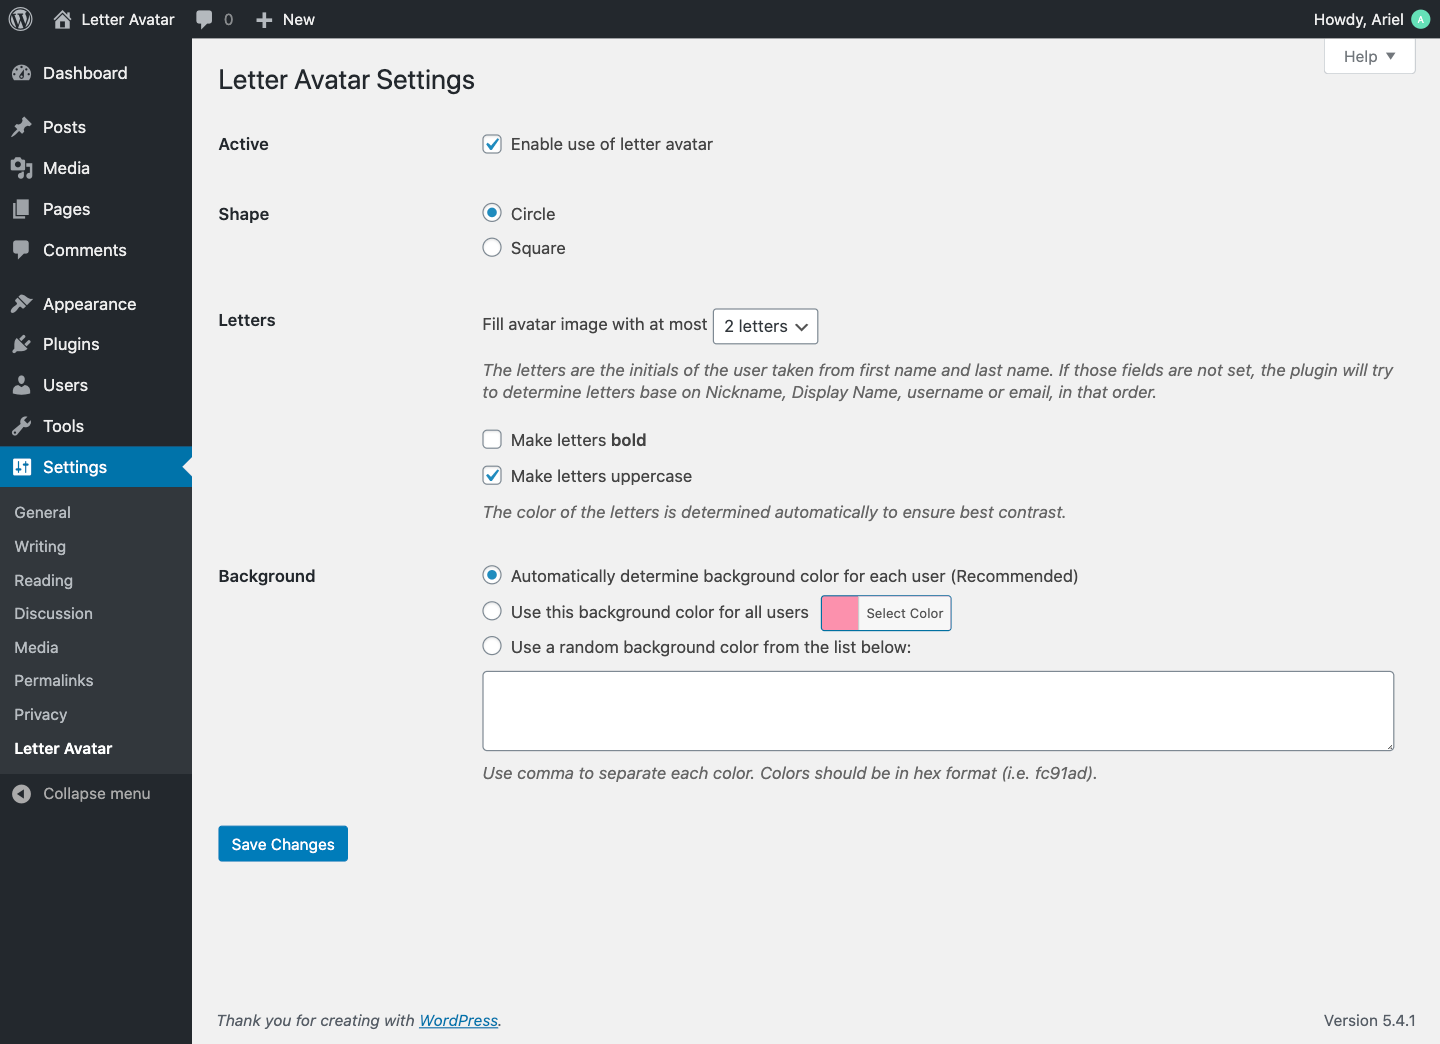
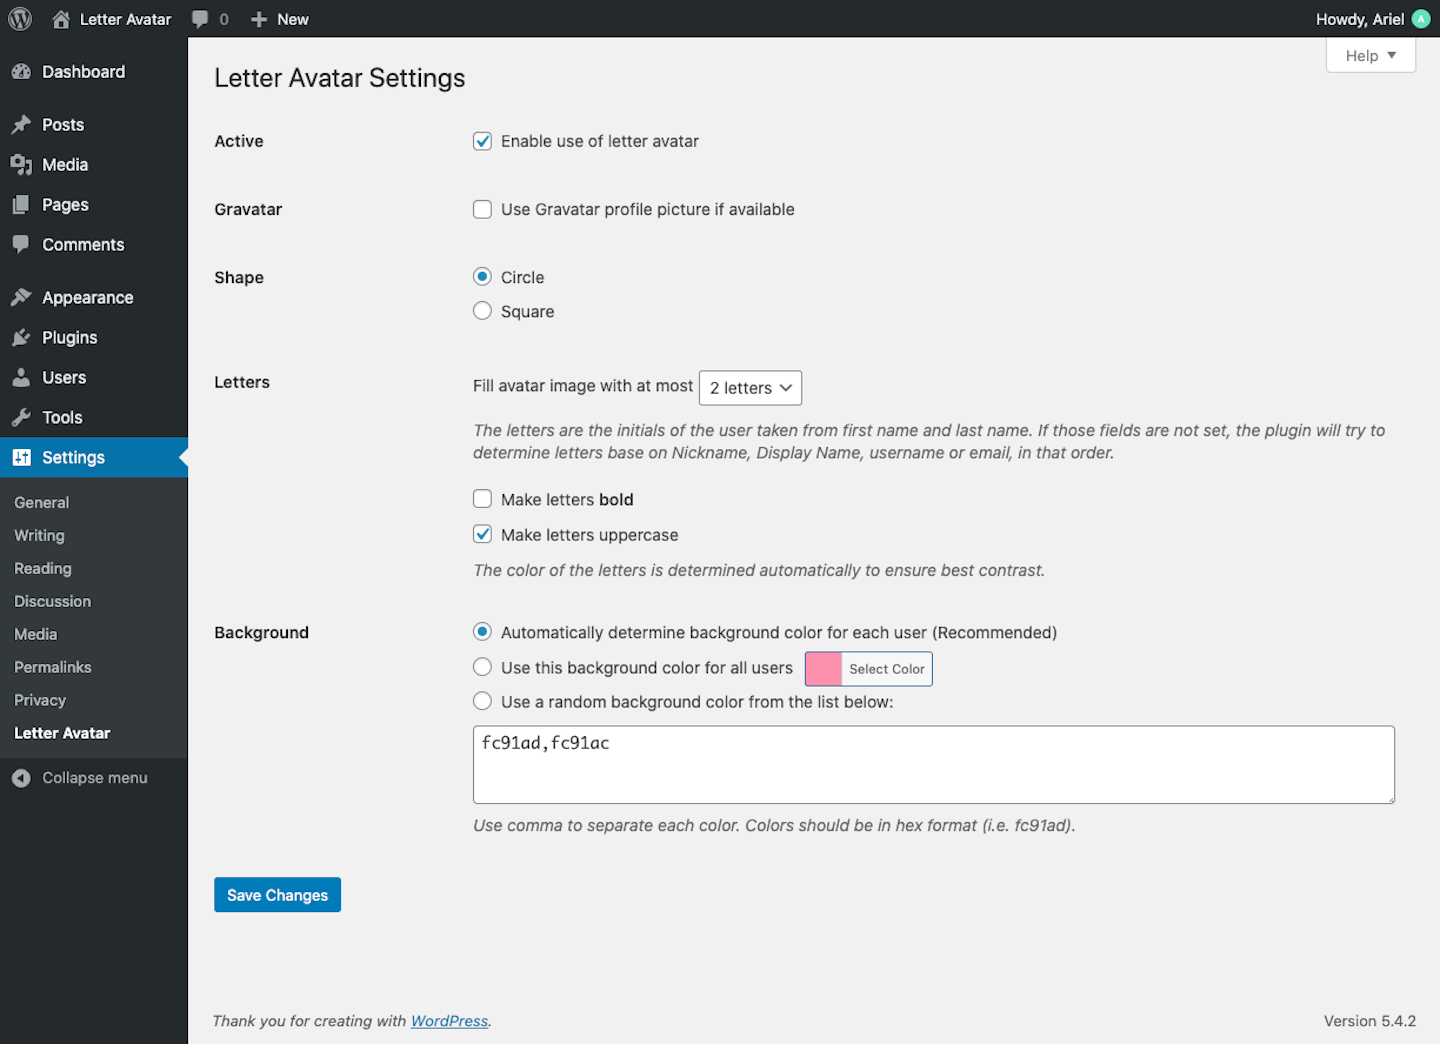
new assets

diff --git a/admin/js/leira-letter-avatar-admin.js b/admin/js/leira-letter-avatar-admin.js
@@ -48,6 +48,25 @@
             // or, supply an array of colors to customize further
             palettes: ['#fc91ad', '#37c5ab', '#fd9a00', '#794fcf', '#19C976']
         });
+
+
+        /**
+         * Handle footer rate us link
+         */
+        $('a.leira-letter-avatar-admin-rating-link').click(function () {
+            $.ajax({
+                url: wp.ajax.settings.url,
+                type: 'post',
+                data: {
+                    action: 'leira_letter_avatar_footer_rated',
+                    nonce: $(this).data('nonce')
+                },
+                success: function () {
+
+                }
+            });
+            $(this).parent().text($(this).data('rated'));
+        });
     });
 
 })(jQuery);

diff --git a/admin/class-leira-letter-avatar-admin.php b/admin/class-leira-letter-avatar-admin.php
@@ -57,6 +57,14 @@ class Leira_Letter_Avatar_Admin{
 	protected $sanitize = null;
 
 	/**
+	 * Action to generate nonce
+	 *
+	 * @var string
+	 * @since 1.2.0
+	 */
+	protected $nonce_action = 'leira-letter-avatar';
+
+	/**
 	 * Initialize the class and set its properties.
 	 *
 	 * @param string $plugin_name The name of this plugin.
@@ -101,7 +109,11 @@ class Leira_Letter_Avatar_Admin{
 		if ( $page === 'settings_page_leira_letter_avatar' ) {
 
 			wp_enqueue_style( 'wp-color-picker' );
-			wp_enqueue_script( $this->plugin_name, plugin_dir_url( __FILE__ ) . 'js/leira-letter-avatar-admin.js', array( 'wp-color-picker' ), $this->version, false );
+			wp_enqueue_script( $this->plugin_name, plugin_dir_url( __FILE__ ) . 'js/leira-letter-avatar-admin.js', array(
+				'jquery',
+				'wp-util',
+				'wp-color-picker'
+			), $this->version, false );
 		}
 
 	}
@@ -241,6 +253,11 @@ class Leira_Letter_Avatar_Admin{
 			'sanitize_callback' => array( $this->sanitize, 'avatar_default' ),
 			'default'           => 'mystery'
 		) );
+		register_setting( 'leira_letter_avatar_settings', 'leira_letter_avatar_gravatar', array(
+			'type'              => 'boolean',
+			'sanitize_callback' => array( $this->sanitize, 'boolean' ),
+			'default'           => false
+		) );
 		register_setting( 'leira_letter_avatar_settings', 'leira_letter_avatar_rounded', array(
 			//Valid values: 'string', 'boolean', 'integer', 'number', 'array', and 'object'.
 			'type'              => 'boolean',
@@ -303,6 +320,14 @@ class Leira_Letter_Avatar_Admin{
 			'leira_letter_avatar_checkbox_field_0',
 			__( 'Active', 'leira-letter-avatar' ),
 			array( $this, 'render_active_settings' ),
+			'leira_letter_avatar_settings',
+			'general'
+		);
+
+		add_settings_field(
+			'leira_letter_avatar_checkbox_field_4',
+			__( 'Gravatar', 'leira-letter-avatar' ),
+			array( $this, 'render_gravatar_settings' ),
 			'leira_letter_avatar_settings',
 			'general'
 		);
@@ -378,6 +403,25 @@ class Leira_Letter_Avatar_Admin{
             <input type='checkbox' name='avatar_default' id="settings_avatar_default"
                    value='leira_letter_avatar' <?php checked( $option, 'leira_letter_avatar' ); ?>>
 			<?php _e( 'Enable use of letter avatar', 'leira-letter-avatar' ); ?>
+        </label>
+
+		<?php
+	}
+
+	/**
+	 * Render Gravatar settings field
+	 *
+	 * @since 1.2.0
+	 */
+	function render_gravatar_settings() {
+
+		$gravatar = get_option( 'leira_letter_avatar_gravatar', false );
+		$gravatar = $this->sanitize->boolean( $gravatar );
+		?>
+        <label for="settings_gravatar">
+            <input type='checkbox' name='leira_letter_avatar_gravatar' id="settings_gravatar"
+                   value='1' <?php checked( true, $gravatar ); ?>>
+			<?php _e( 'Use Gravatar profile picture if available', 'leira-letter-avatar' ); ?>
         </label>
 
 		<?php
@@ -522,6 +566,66 @@ class Leira_Letter_Avatar_Admin{
             </div>
         </fieldset>
 		<?php
+	}
+
+
+	/**
+	 * Change the admin footer text on Settings page
+	 * Give us a rate
+	 *
+	 * @param $footer_text
+	 *
+	 * @return string
+	 * @since 1.2.0
+	 */
+	public function admin_footer_text( $footer_text ) {
+		$current_screen = get_current_screen();
+
+		// Add the dashboard pages
+		$pages[] = 'settings_page_leira_letter_avatar';
+
+		if ( isset( $current_screen->id ) && in_array( $current_screen->id, $pages ) ) {
+			// Change the footer text
+			if ( ! get_option( 'leira_letter_avatar_footer_rated' ) ) {
+
+				ob_start(); ?>
+                <a href="https://wordpress.org/support/plugin/leira-letter-avatar/reviews/?filter=5" target="_blank"
+                   class="leira-letter-avatar-admin-rating-link"
+                   data-rated="<?php esc_attr_e( 'Thanks :)', 'leira-letter-avatar' ) ?>"
+                   data-nonce="<?php echo wp_create_nonce( $this->nonce_action ) ?>">
+                    &#9733;&#9733;&#9733;&#9733;&#9733;
+                </a>
+				<?php $link = ob_get_clean();
+
+				ob_start();
+
+				printf( __( 'If you like Letter Avatar please consider leaving a %s review. It will help us to grow the plugin and make it more popular. Thank you.', 'leira-letter-avatar' ), $link ) ?>
+
+				<?php $footer_text = ob_get_clean();
+			}
+		}
+
+		return $footer_text;
+	}
+
+	/**
+	 * When user clicks the review link in backend
+	 *
+	 * @since 1.2.0
+	 */
+	function footer_rated() {
+		$nonce = isset( $_REQUEST['nonce'] ) ? sanitize_text_field( $_REQUEST['nonce'] ) : '';
+
+		if ( ! wp_verify_nonce( $nonce, $this->nonce_action ) ) {
+			wp_send_json_error( esc_js( __( 'Wrong Nonce', 'leira-letter-avatar' ) ) );
+		}
+
+		if ( ! is_user_logged_in() || ! current_user_can( 'manage_options' ) ) {
+			wp_send_json_error( __( 'Please login as administrator', 'leira-letter-avatar' ) );
+		}
+
+		update_option( 'leira_letter_avatar_footer_rated', 1 );
+		wp_send_json_success();
 	}
 
 }

diff --git a/public/class-leira-letter-avatar-public.php b/public/class-leira-letter-avatar-public.php
@@ -237,7 +237,7 @@ class Leira_Letter_Avatar_Public{
 		}
 		$args = array_merge( $args, array(
 			'size'     => 300,
-			'gravatar' => get_option( 'leira_letter_avatar_use_gravatar', true ),
+			'gravatar' => get_option( 'leira_letter_avatar_gravatar', false ),
 			'rating'   => get_option( 'avatar_rating', 'G' )
 		) );
 
@@ -541,7 +541,7 @@ class Leira_Letter_Avatar_Public{
 			return false;
 		}
 
-		$cache = wp_cache_get( $hash, 'leira_letter_gravatar', false, $found );
+		$cache = wp_cache_get( $hash, 'leira_letter_avatar_gravatar', false, $found );
 		if ( $found ) {
 			return $cache;
 		}
@@ -555,7 +555,7 @@ class Leira_Letter_Avatar_Public{
 		}
 
 		$expire = 60 * 60 * 3;//3 hours
-		wp_cache_set( $hash, $has_valid_avatar, 'leira_letter_gravatar', $expire );
+		wp_cache_set( $hash, $has_valid_avatar, 'leira_letter_avatar_gravatar', $expire );
 
 		return $has_valid_avatar;
 	}

diff --git a/includes/class-leira-letter-avatar.php b/includes/class-leira-letter-avatar.php
@@ -207,6 +207,10 @@ class Leira_Letter_Avatar{
 			$this->loader->add_action( 'admin_enqueue_scripts', $plugin_admin, 'enqueue_scripts' );
 
 			$this->loader->add_filter( 'admin_body_class', $plugin_admin, 'admin_body_class' );
+
+			$this->loader->add_filter( 'admin_footer_text', $plugin_admin, 'admin_footer_text', 1000 );
+
+			$this->loader->add_action( 'wp_ajax_leira_letter_avatar_footer_rated', $plugin_admin, 'footer_rated' );
 		}
 	}
 

diff --git a/leira-letter-avatar.php b/leira-letter-avatar.php
@@ -35,7 +35,7 @@ if ( ! defined( 'WPINC' ) ) {
  * Start at version 1.0.0 and use SemVer - https://semver.org
  * Rename this for your plugin and update it as you release new versions.
  */
-define( 'LEIRA_LETTER_AVATAR_VERSION', '1.0.0' );
+define( 'LEIRA_LETTER_AVATAR_VERSION', '1.2.0' );
 
 /**
  * The code that runs during plugin activation.

diff --git a/index.php b/index.php
@@ -1,3 +1,1 @@
 <?php // Silence is golden
-
-$t = 0;
